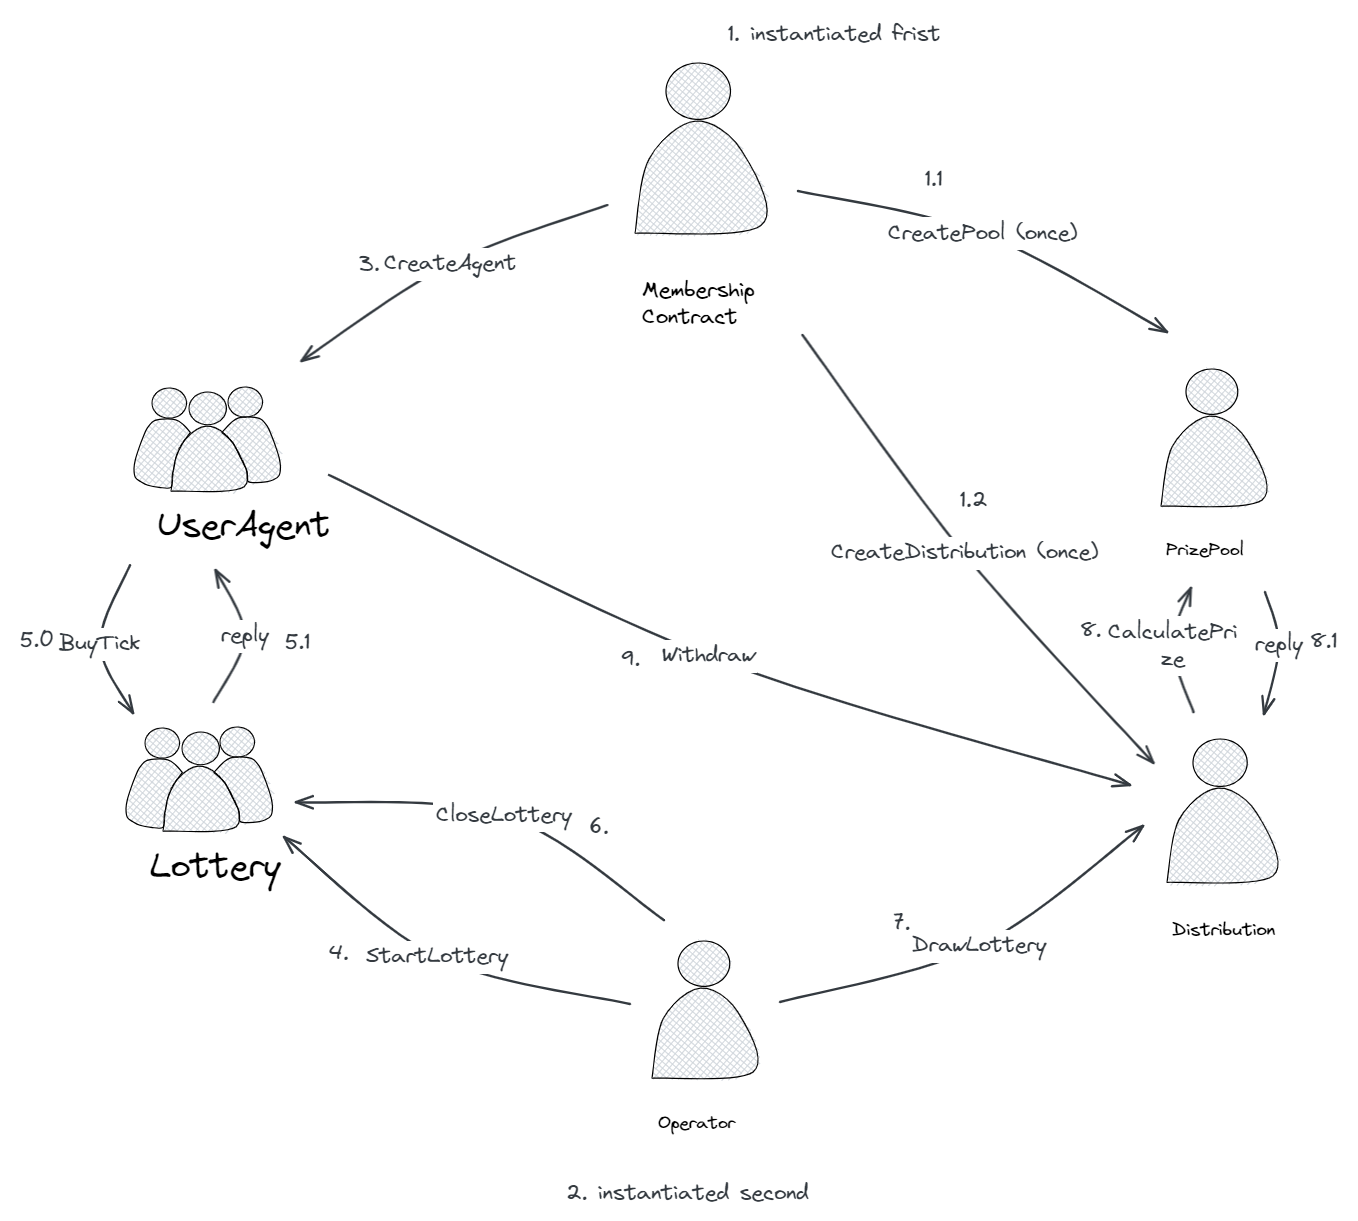
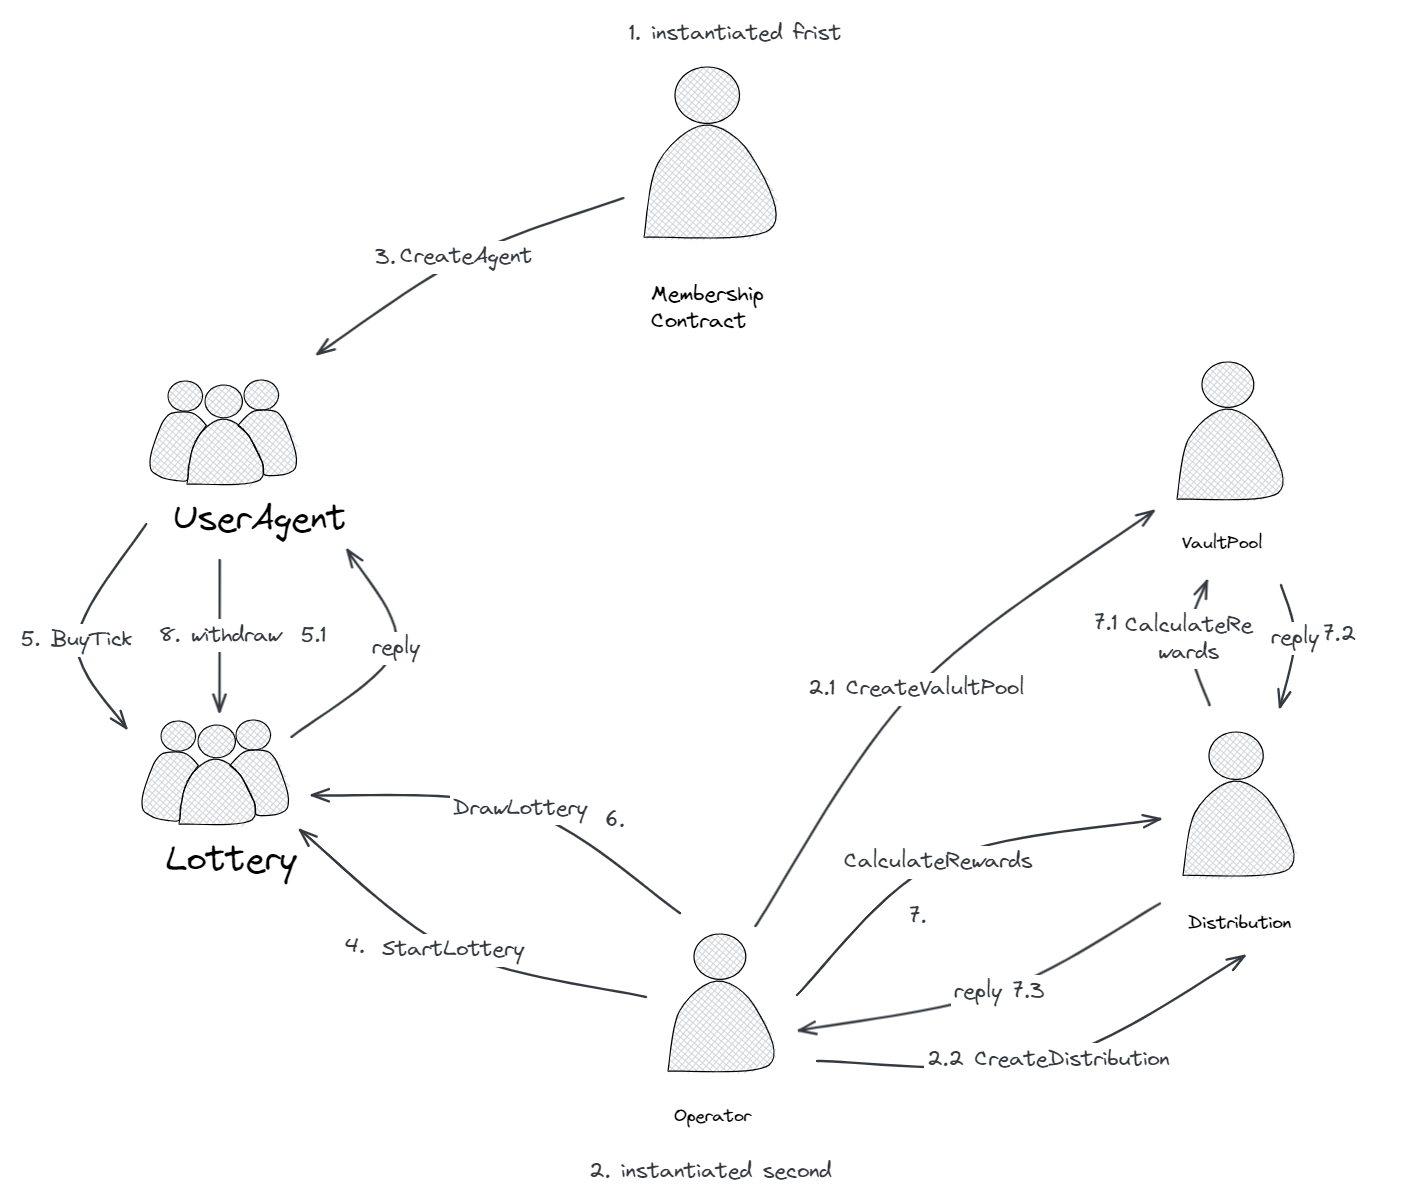
Add lsd flow diagram

diff --git a/readme.md b/readme.md
@@ -11,7 +11,7 @@
 
 ## LSD
 
-`TBD`
+![avatar](./lsd-flow.png)
 
 
 ## Lottery
